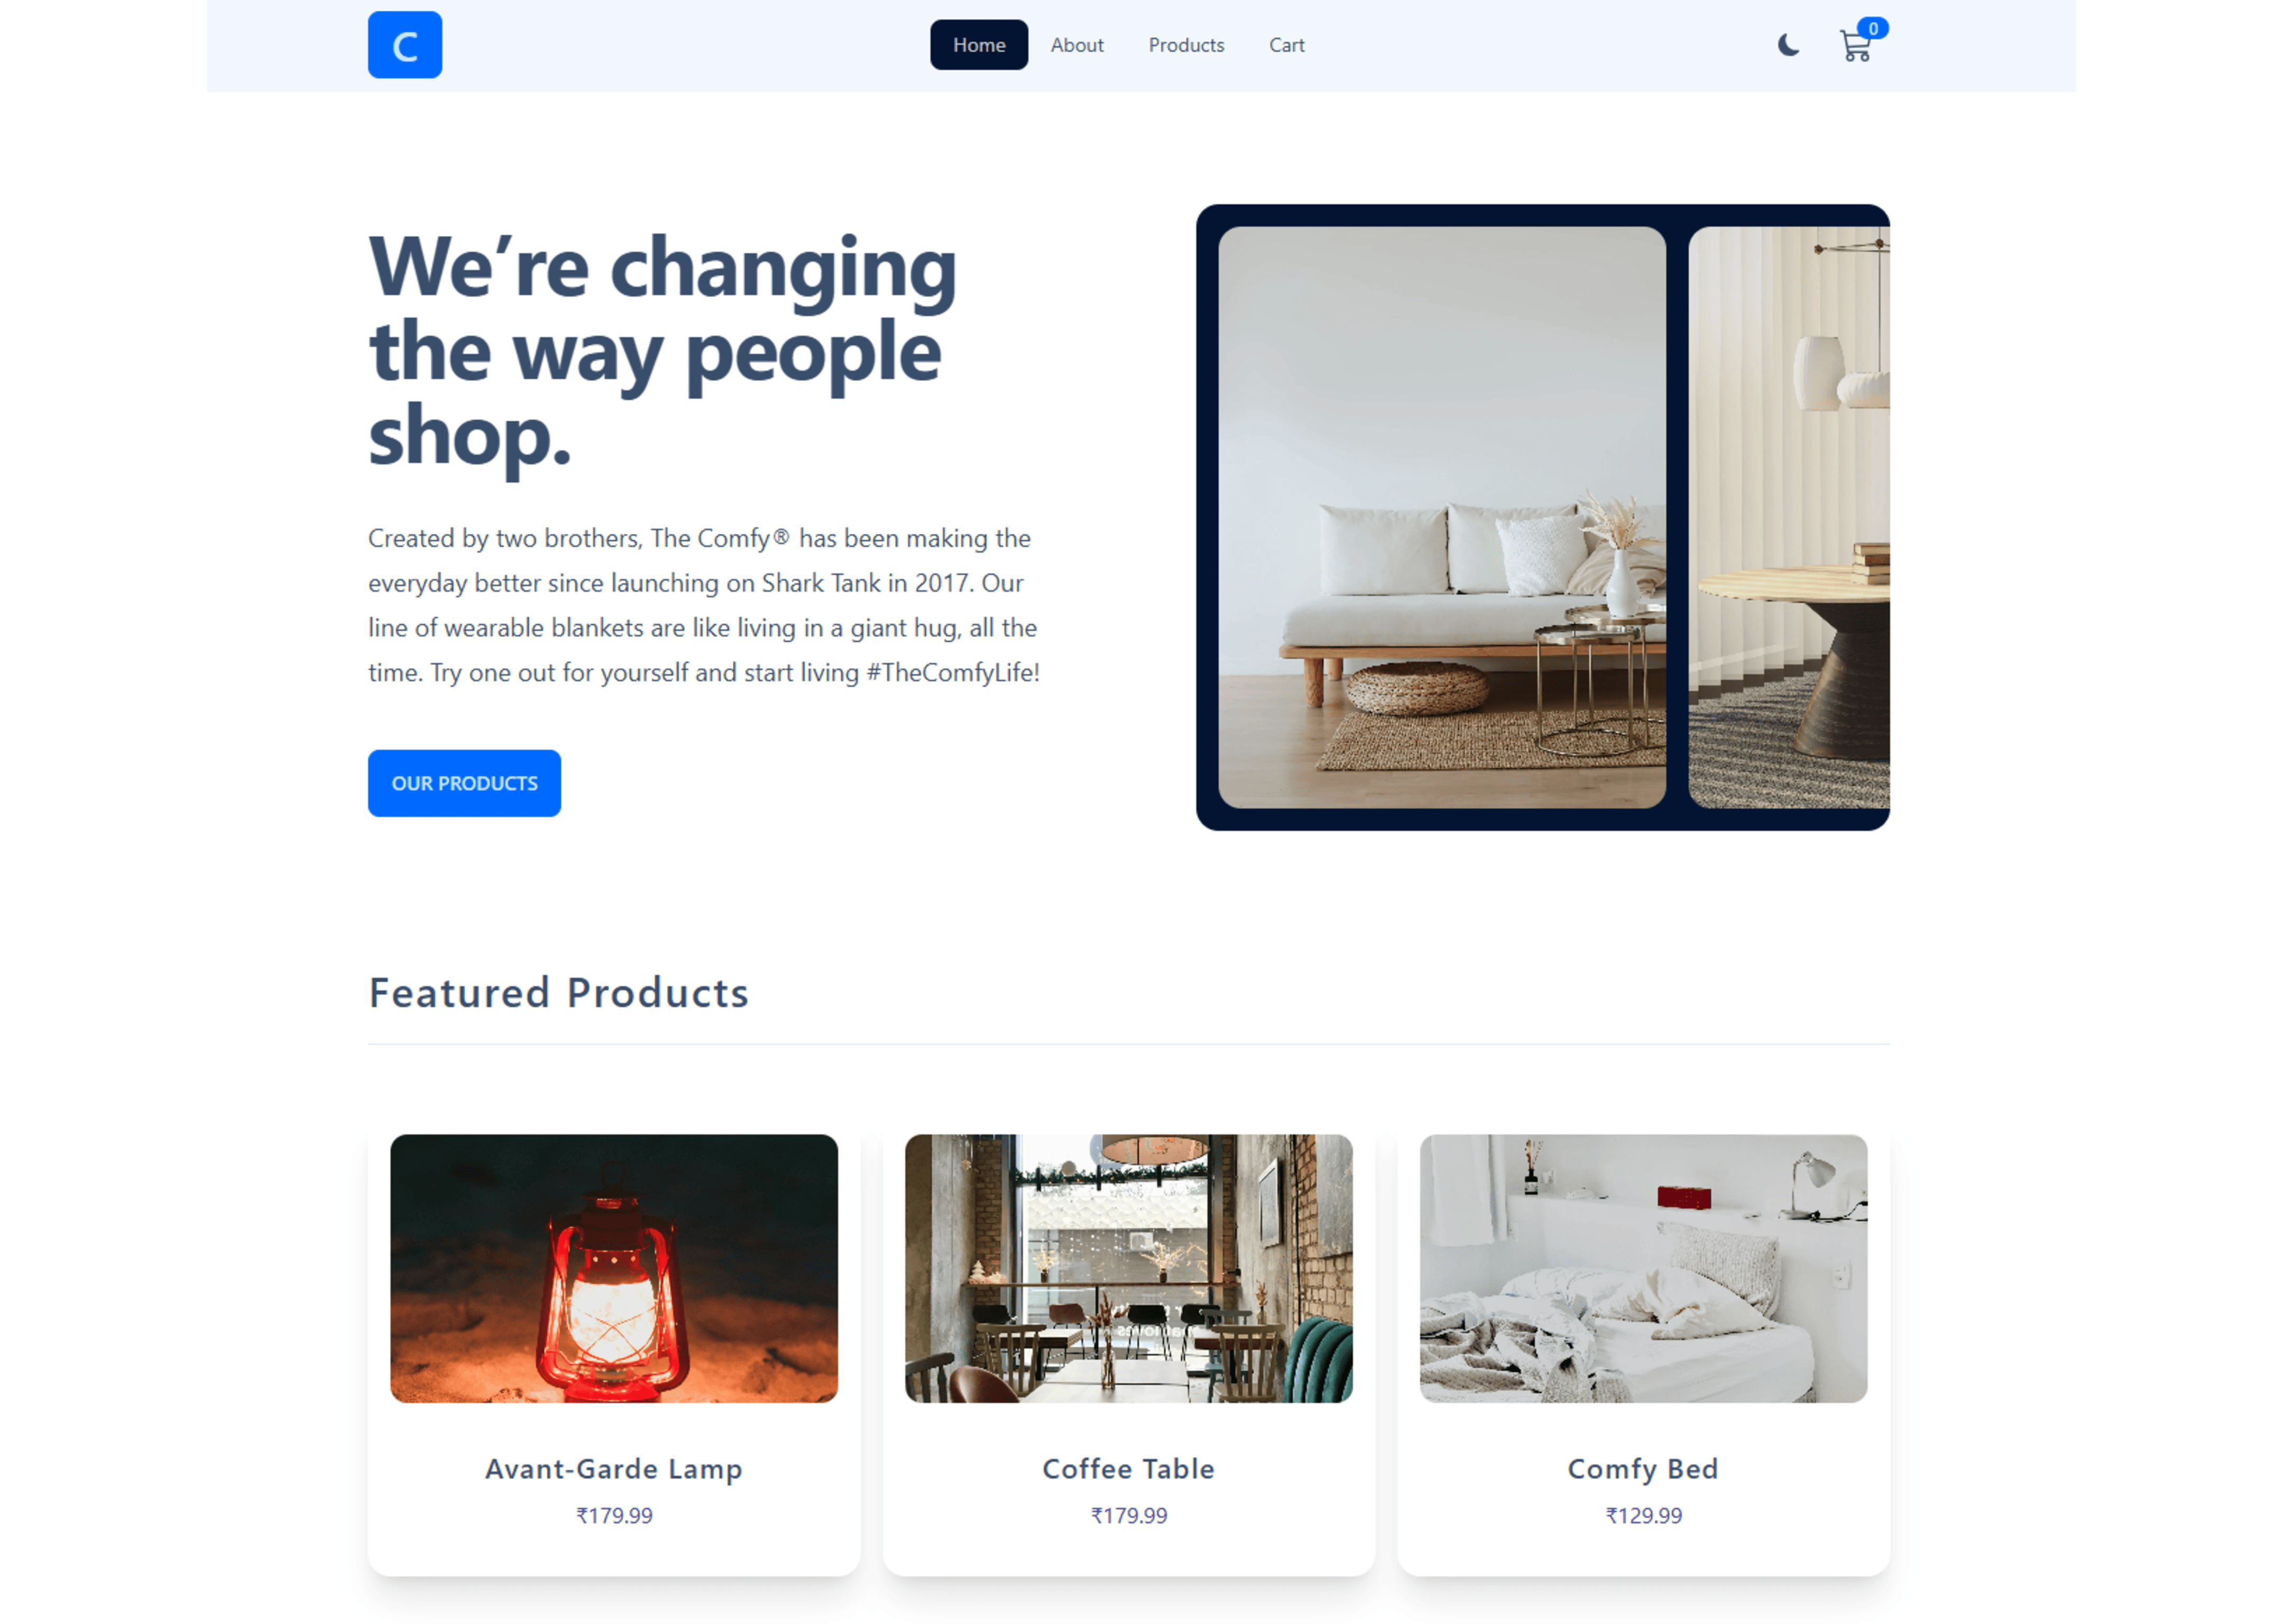
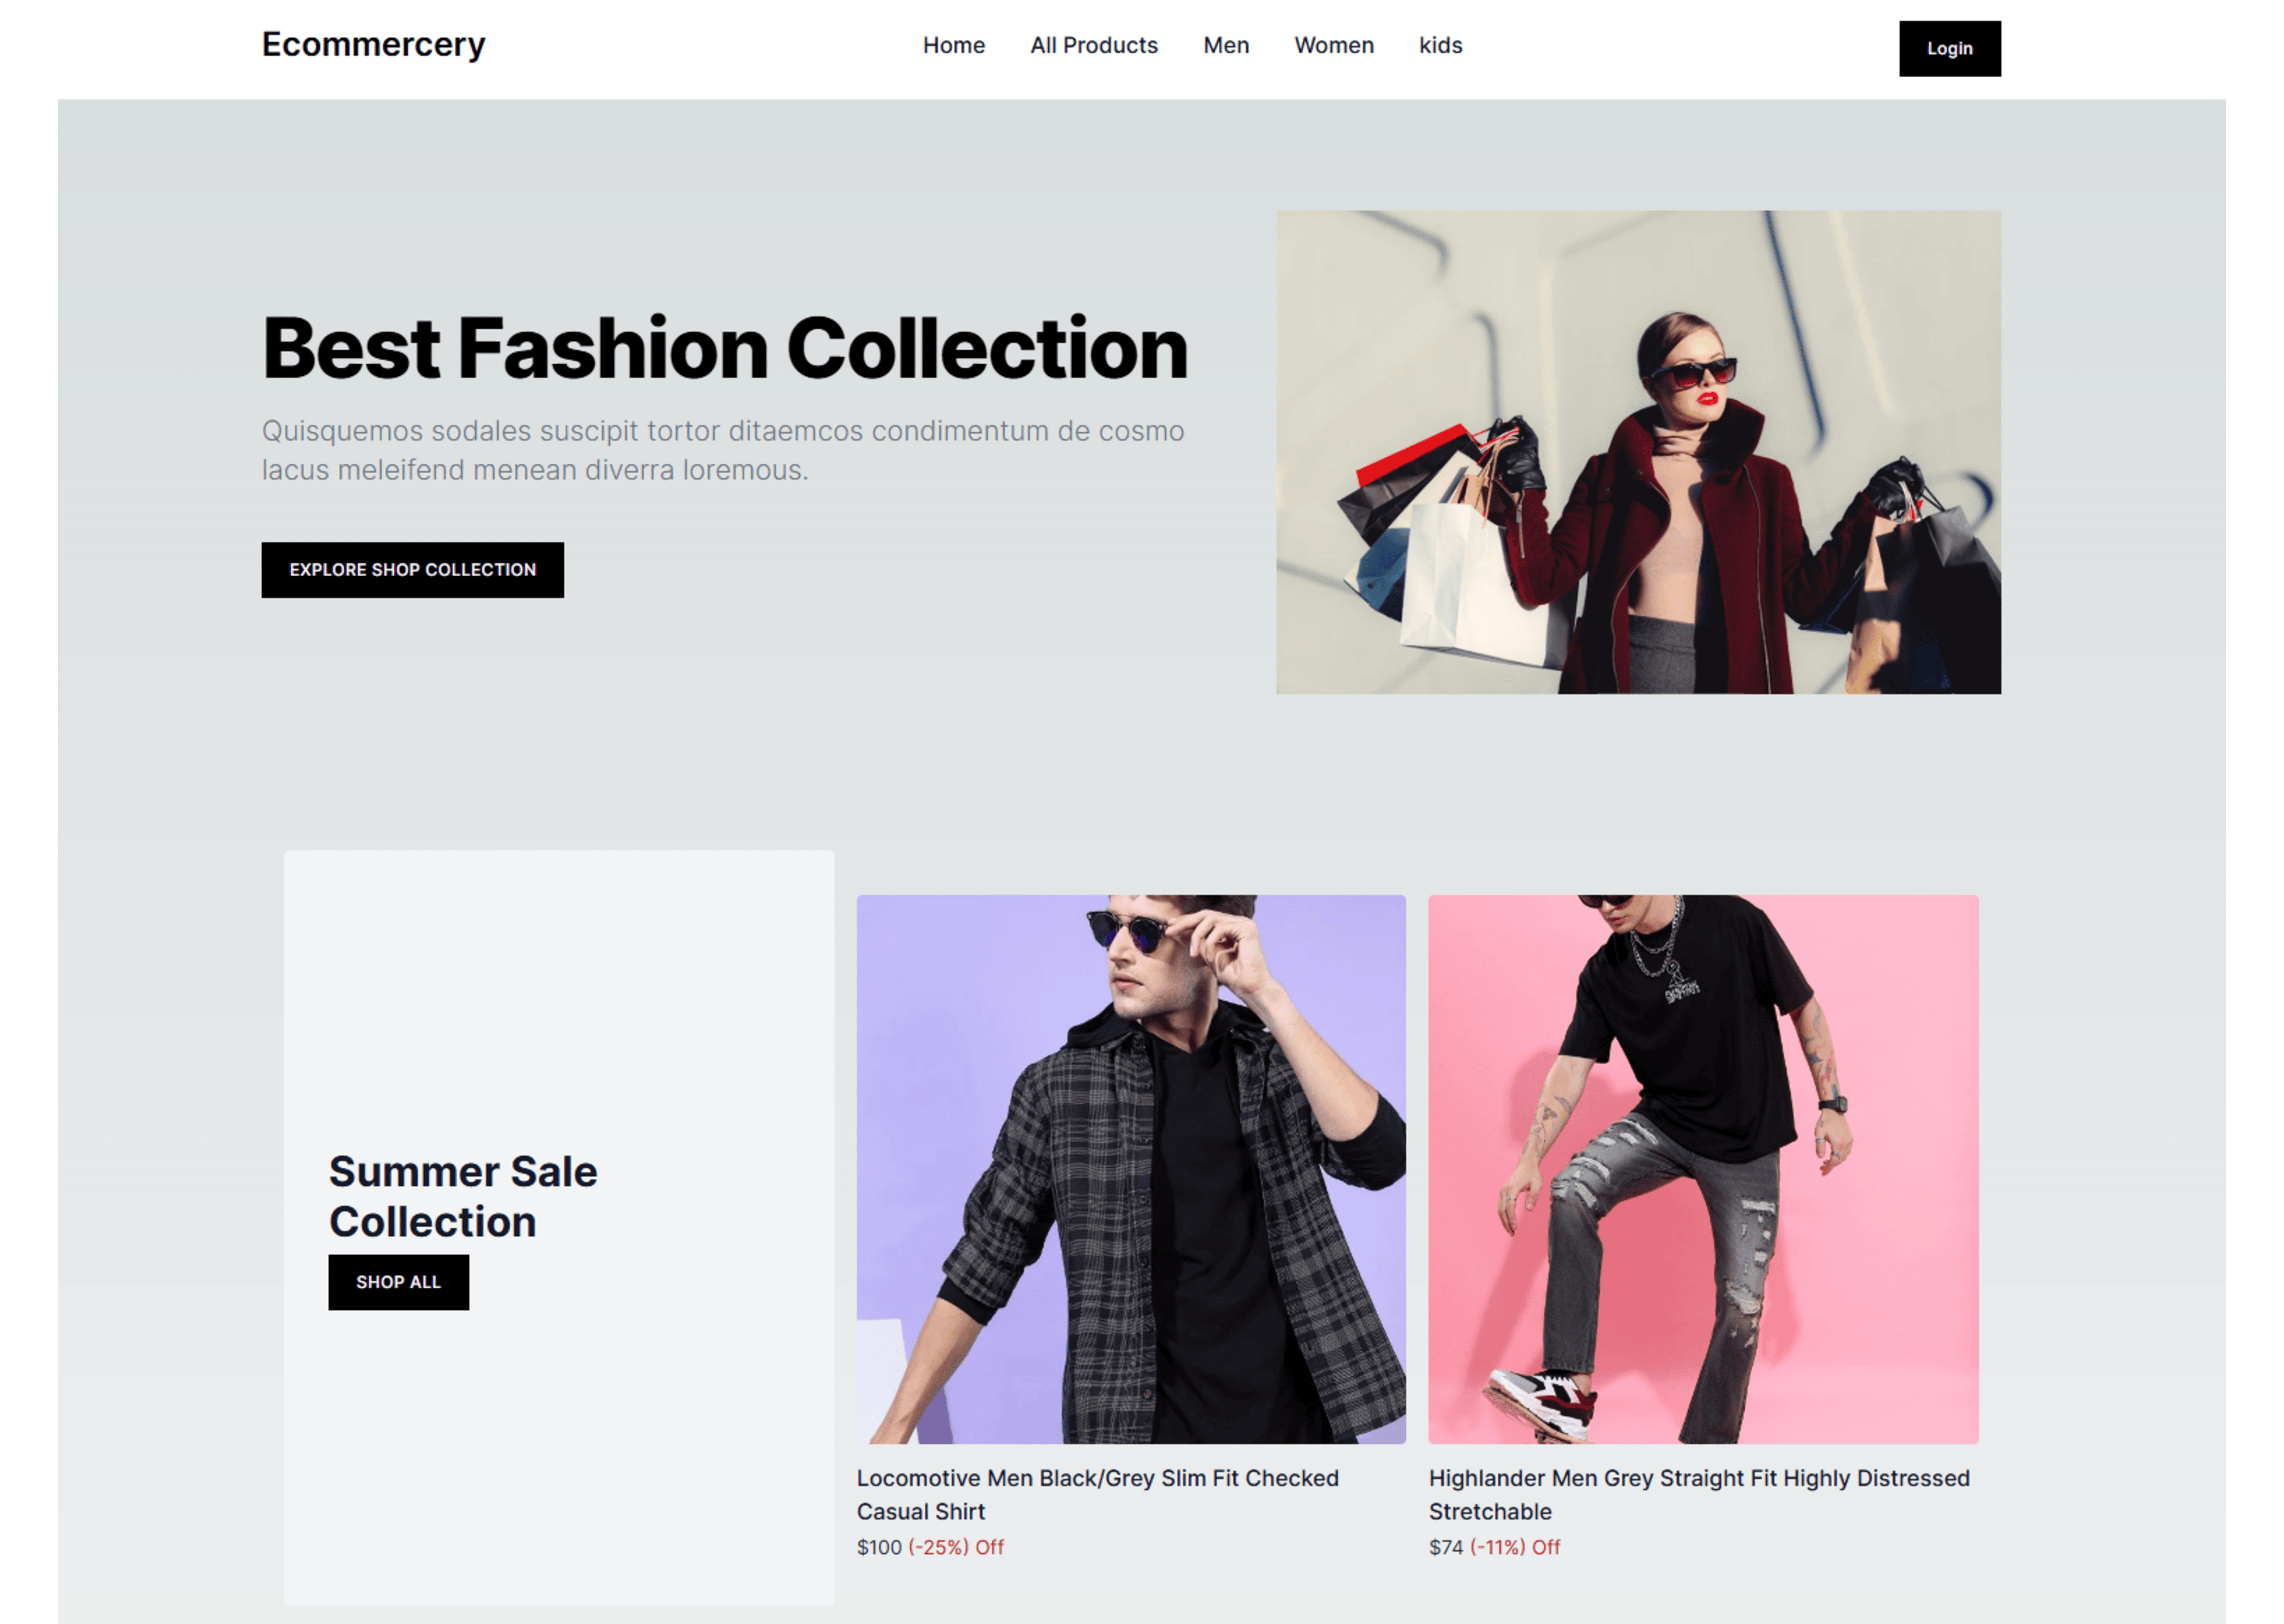
add some projects

diff --git a/src/constants/index.js b/src/constants/index.js
@@ -22,6 +22,7 @@ import {
   project3,
   project4,
   project5,
+  project6,
   threejs,
 } from "../assets";
 
@@ -223,6 +224,48 @@ const projects = [
     view: "https://temp-nextjs-store-draft-omega.vercel.app/",
   },
   {
+    name: "Chat App",
+    description:
+      "The website hosts a deployable, feature-rich AI chatbot application built with Next.js and Vercel. It uses a unified API to connect with advanced AI models (such as OpenAI's GPT-4, Google Gemini, and others) and comes with a compact client, multi-language interface, and a wide library of prompt templates for powerful and customizable conversations.",
+    tags: [
+      {
+        name: "Nextjs",
+        color: "blue-text-gradient",
+      },
+      {
+        name: "Clerk",
+        color: "green-text-gradient",
+      },
+      {
+        name: "Typescript",
+        color: "pink-text-gradient",
+      },
+    ],
+    image: project3,
+    view: "https://chat-next-dusky.vercel.app/",
+  },
+  {
+    name: "Socially",
+    description:
+      "Socially is a social-style web application deployed on Vercel, likely built to showcase a modern social media or networking experience with posts, profiles, and interactive engagement features.",
+    tags: [
+      {
+        name: "Nextjs",
+        color: "blue-text-gradient",
+      },
+      {
+        name: "Prisma",
+        color: "green-text-gradient",
+      },
+      {
+        name: "TailwindCSS",
+        color: "pink-text-gradient",
+      },
+    ],
+    image: project4,
+    view: "https://socially-app-psi.vercel.app/",
+  },
+  {
     name: "Next-Gen E-Commerce",
     description:
       "It leverages modern web technologies Next.js and Tailwind CSS to deliver a seamless shopping experience. The site is optimized for speed, SEO, and dynamic content rendering, making it an excellent choice for online stores. It also supports integrations with various commerce providers, offering flexibility and scalability for businesses.",
@@ -240,29 +283,8 @@ const projects = [
         color: "pink-text-gradient",
       },
     ],
-    image: project3,
+    image: project5,
     view: "https://ecommerce-next13js.vercel.app/",
-  },
-  {
-    name: "Image Gallery",
-    description:
-      "It offers users the ability to explore and download various pictures, catering to different themes and purposes. The site has a clean, user-friendly design, making it easy to browse through the images available.",
-    tags: [
-      {
-        name: "React.js",
-        color: "blue-text-gradient",
-      },
-      {
-        name: "Axios",
-        color: "green-text-gradient",
-      },
-      {
-        name: "CSS",
-        color: "pink-text-gradient",
-      },
-    ],
-    image: project4,
-    view: "https://kvite-images.netlify.app/",
   },
   {
     name: "Comfy Home Essentials",
@@ -282,7 +304,7 @@ const projects = [
         color: "pink-text-gradient",
       },
     ],
-    image: project5,
+    image: project6,
     view: "https://kcomfy-store.netlify.app/",
   },
 ];

diff --git a/src/assets/index.js b/src/assets/index.js
@@ -29,6 +29,7 @@ import project2 from "./projects/project2.png";
 import project3 from "./projects/project3.png";
 import project4 from "./projects/project4.png";
 import project5 from "./projects/project5.png";
+import project6 from "./projects/project6.png";
 
 export {
   logo,
@@ -59,4 +60,5 @@ export {
   project3,
   project4,
   project5,
+  project6,
 };